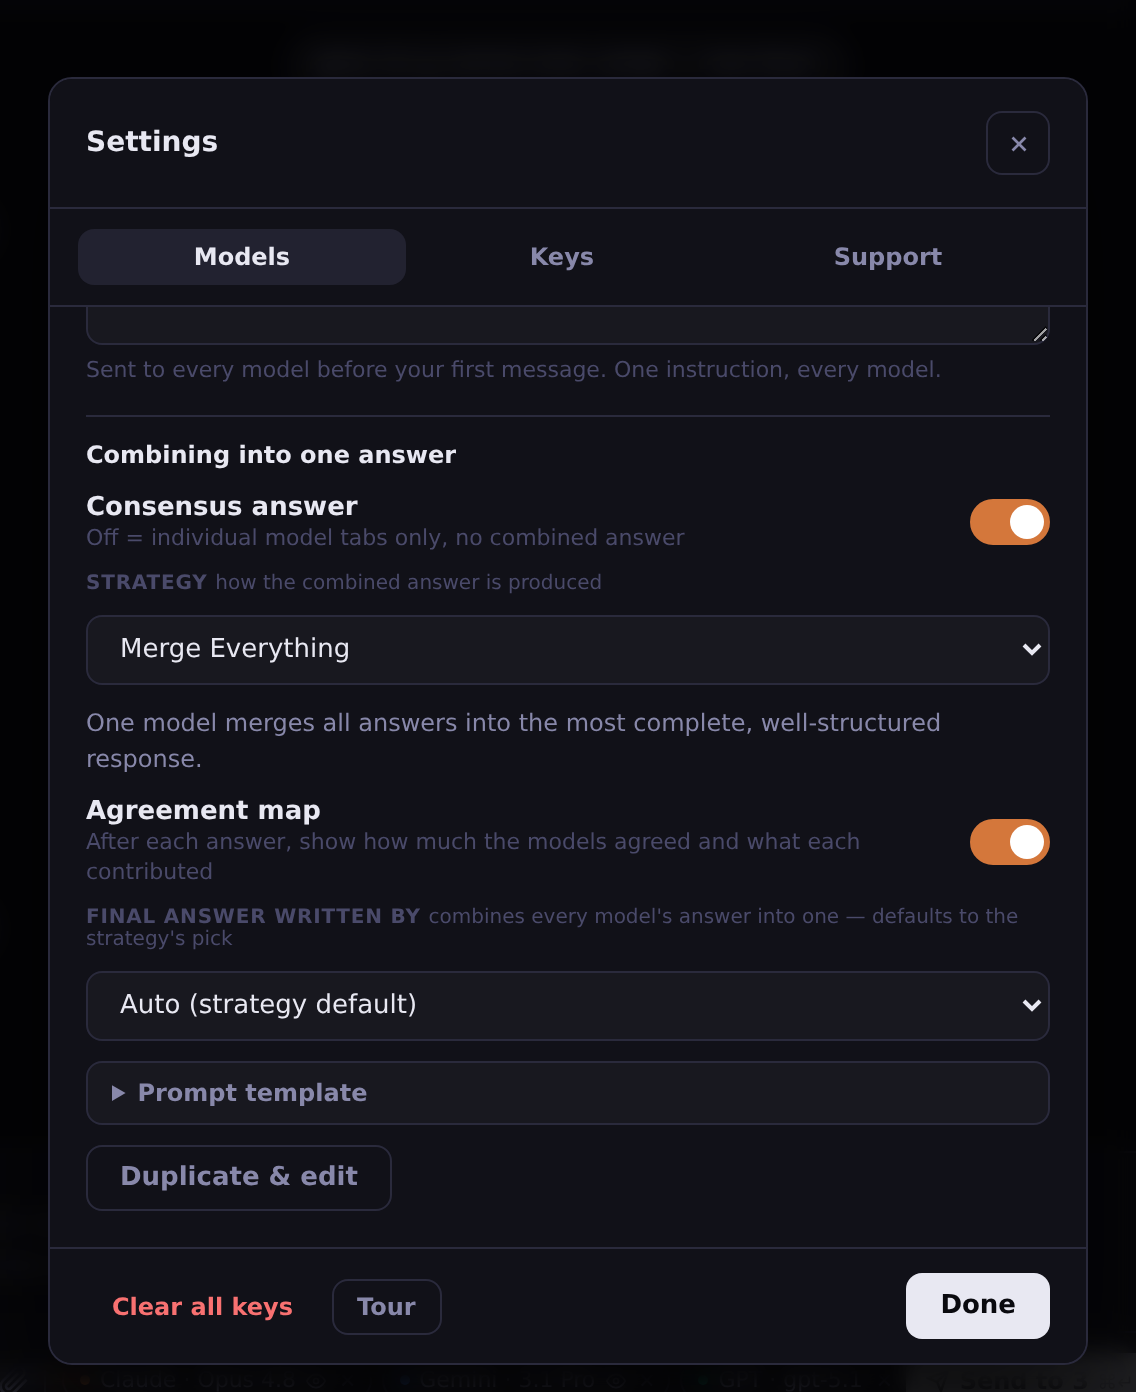
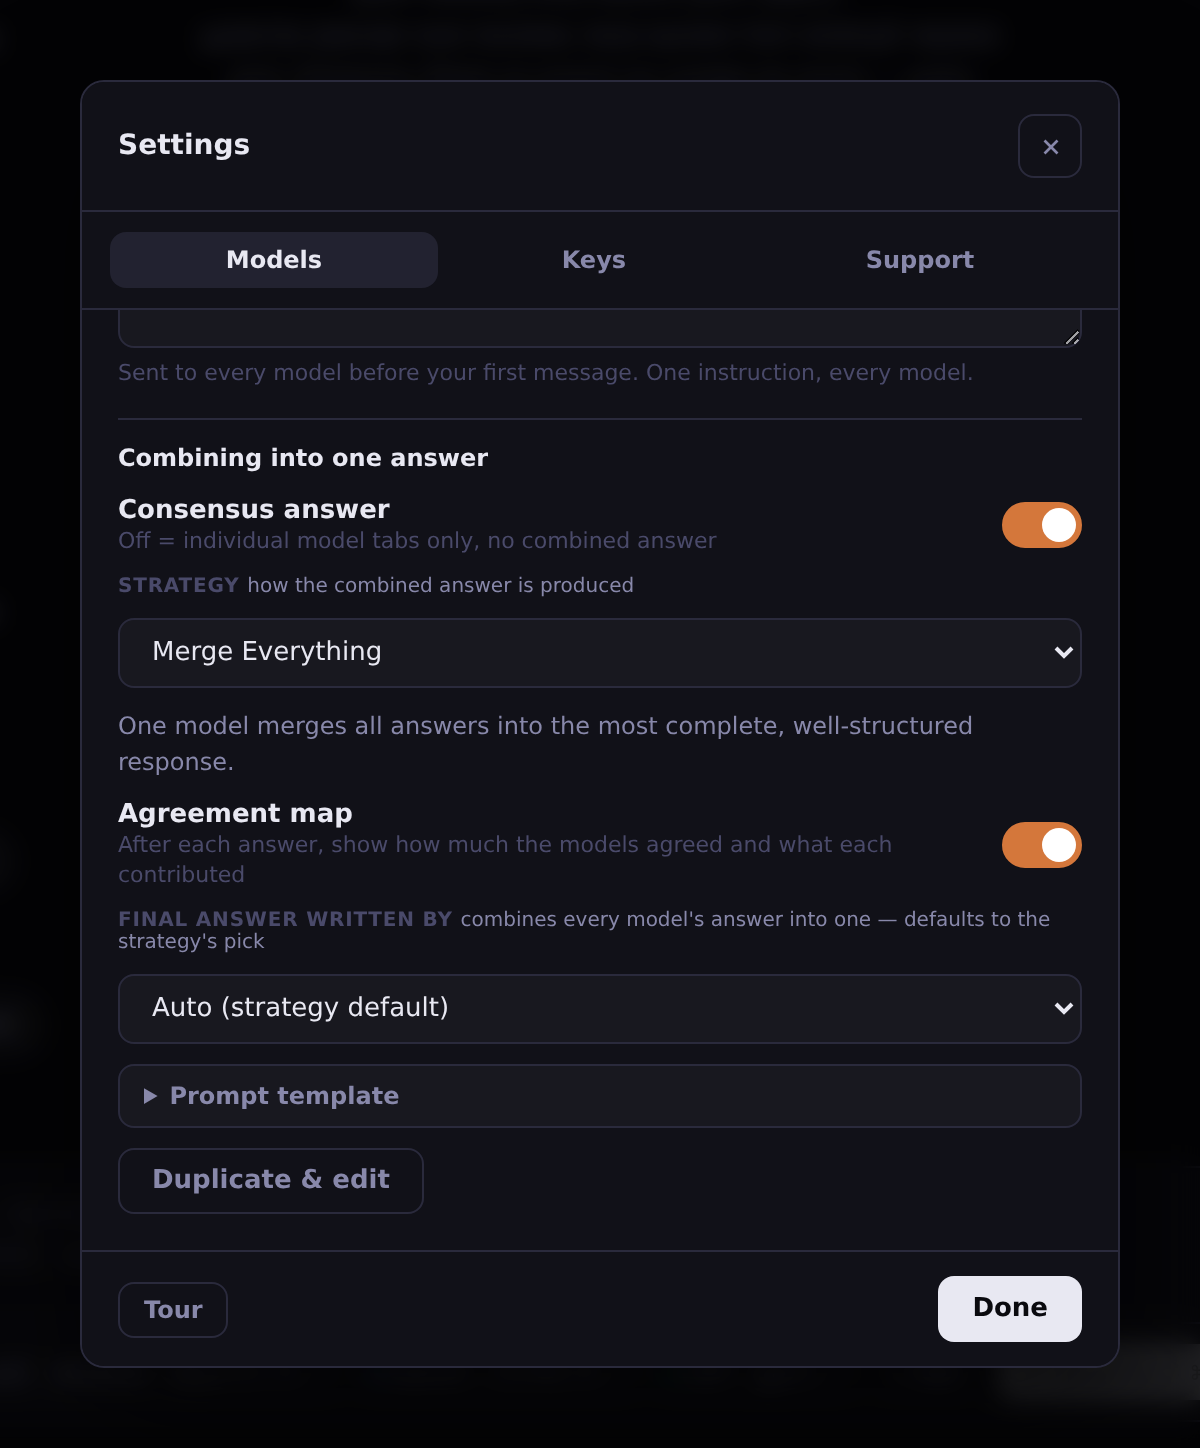
Refresh stale Customizable-consensus screenshot to match current app
The old shot predated the app-side fix that moved "Clear all keys" out
of the shared Settings footer into the Keys tab, so it showed a footer
layout that no longer exists in the live product.

diff --git a/index.html b/index.html
@@ -275,7 +275,7 @@
       </ul>
       <p class="muted small">Edit the prompts, save your own strategies, and export/import your whole setup.</p>
     </div>
-    <figure class="split-shot"><img src="assets/shots/arbitration.png" alt="Consensus settings in Polecat" loading="lazy" width="1136" height="1392"></figure>
+    <figure class="split-shot"><img src="assets/shots/arbitration.png" alt="Consensus settings in Polecat" loading="lazy" width="1200" height="1448"></figure>
   </div>
 </section>
 
@@ -391,7 +391,7 @@
     <a href="https://github.com/kevinrhaas/polecat/blob/main/CHANGELOG.md">Changelog</a>
     <a href="https://ko-fi.com/polecatlive" target="_blank" rel="noopener">Ko-fi</a>
   </div>
-  <div class="foot-meta">Last updated 2026-07-04 10:11 CT · <a href="https://github.com/kevinrhaas/polecat/blob/main/CHANGELOG.md" style="color:inherit">changelog</a></div>
+  <div class="foot-meta">Last updated 2026-07-04 10:56 CT · <a href="https://github.com/kevinrhaas/polecat/blob/main/CHANGELOG.md" style="color:inherit">changelog</a></div>
 
 </footer>
 

diff --git a/js/changelog.js b/js/changelog.js
@@ -4,6 +4,14 @@
 // Entries are newest-first; `ts` is an ISO-8601 UTC string.
 export const CHANGELOG = [
   {
+    v: 98,
+    title: 'Refreshed the stale "Customizable consensus" product screenshot',
+    ts: '2026-07-04T15:56:00.000Z',
+    items: [
+      'Refreshed the stale "Customizable consensus" product screenshot — it was captured before the app moved "Clear all keys" out of the shared Settings footer into the Keys tab, so the marketing site was showing a footer layout ( "Clear all keys" next to "Tour"/"Done" on the Models tab) that no longer exists in the live product. Recaptured it from the current app: same section, same "Combining into one answer" content, now with the corrected footer and the merged "Models & Consensus" tab heading. No copy or layout changes, just an accurate, up-to-date screenshot.',
+    ],
+  },
+  {
     v: 97,
     title: 'Added a `<main>` landmark around the page content',
     ts: '2026-07-04T15:11:00.000Z',

diff --git a/CHANGELOG.md b/CHANGELOG.md
@@ -2,6 +2,9 @@
 
 What's new on the Polecat landing site.
 
+## 2026-07-04 10:56 CT (98)
+- **Refreshed the stale "Customizable consensus" product screenshot** — it was captured before the app moved "Clear all keys" out of the shared Settings footer into the Keys tab, so the marketing site was showing a footer layout ( "Clear all keys" next to "Tour"/"Done" on the Models tab) that no longer exists in the live product. Recaptured it from the current app: same section, same "Combining into one answer" content, now with the corrected footer and the merged "Models & Consensus" tab heading. No copy or layout changes, just an accurate, up-to-date screenshot.
+
 ## 2026-07-04 10:11 CT (97)
 - **Added a `<main>` landmark around the page content** — an accessibility audit found every section (hero, examples, how-it-works, agreement map, providers, comparison table, privacy, closing CTA) sat as a direct child of `<body>` between the header and footer, with no `<main>` element anywhere. Screen-reader users navigating by landmark (a standard NVDA/JAWS/VoiceOver technique) only ever saw two stops — "banner" and "contentinfo" — with no way to jump straight to the actual content. Wrapped the existing sections in a single `<main>`, no markup or CSS otherwise changed. Verified in a real headless-Chromium session: the page now exposes header/main/footer landmarks in order, all 11 top-level sections render inside `<main>` exactly as before with no visual or layout change, zero console errors, `node scripts/validate.mjs` passes.
 
